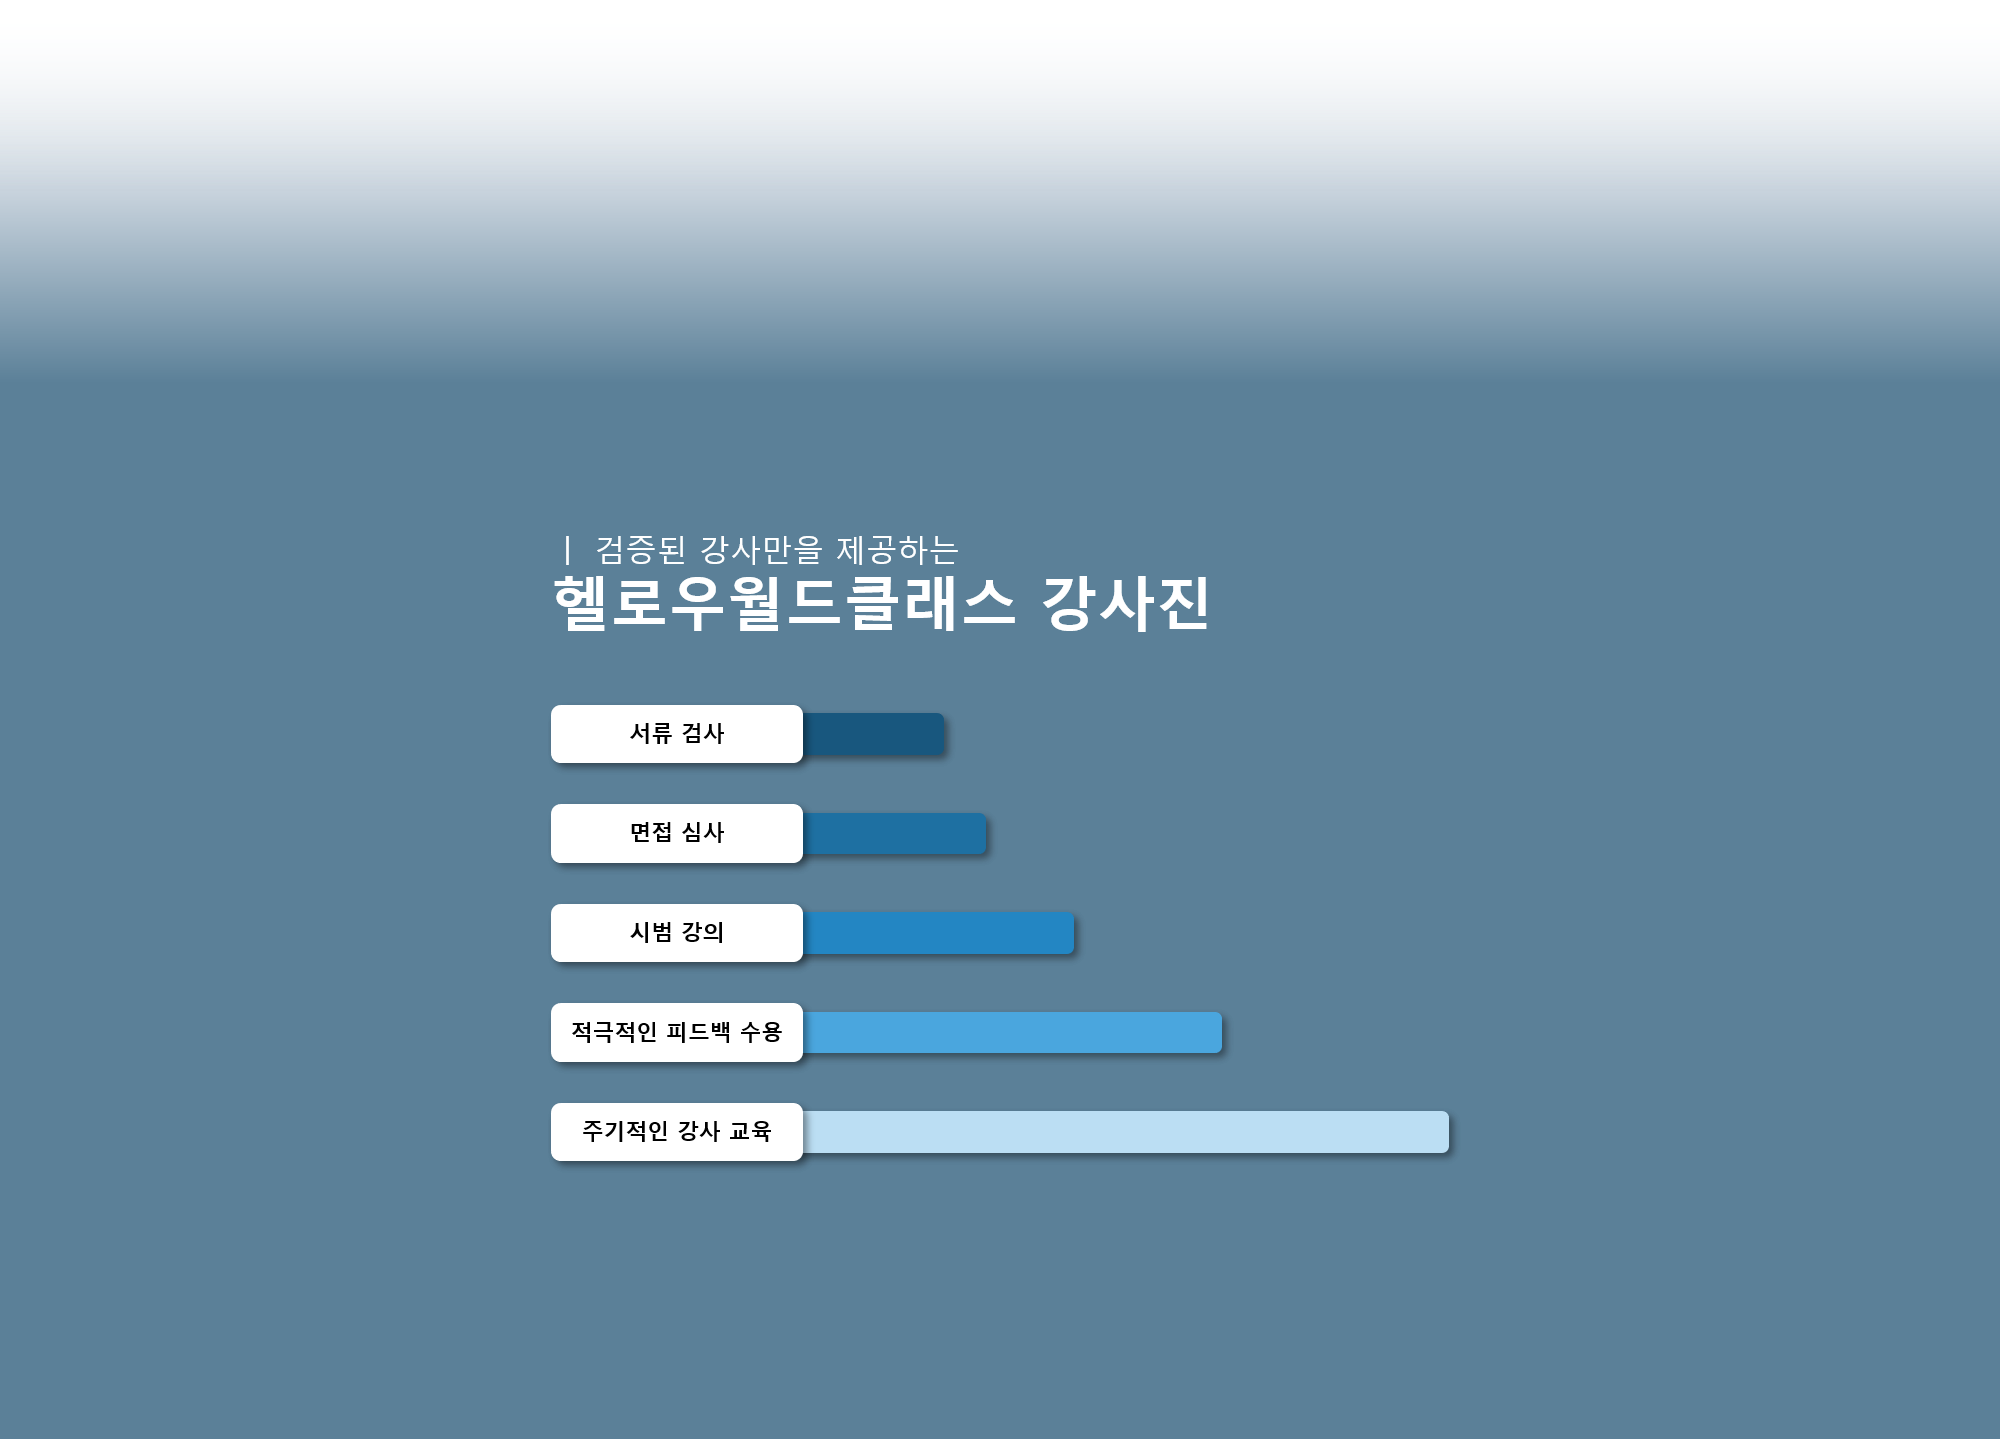
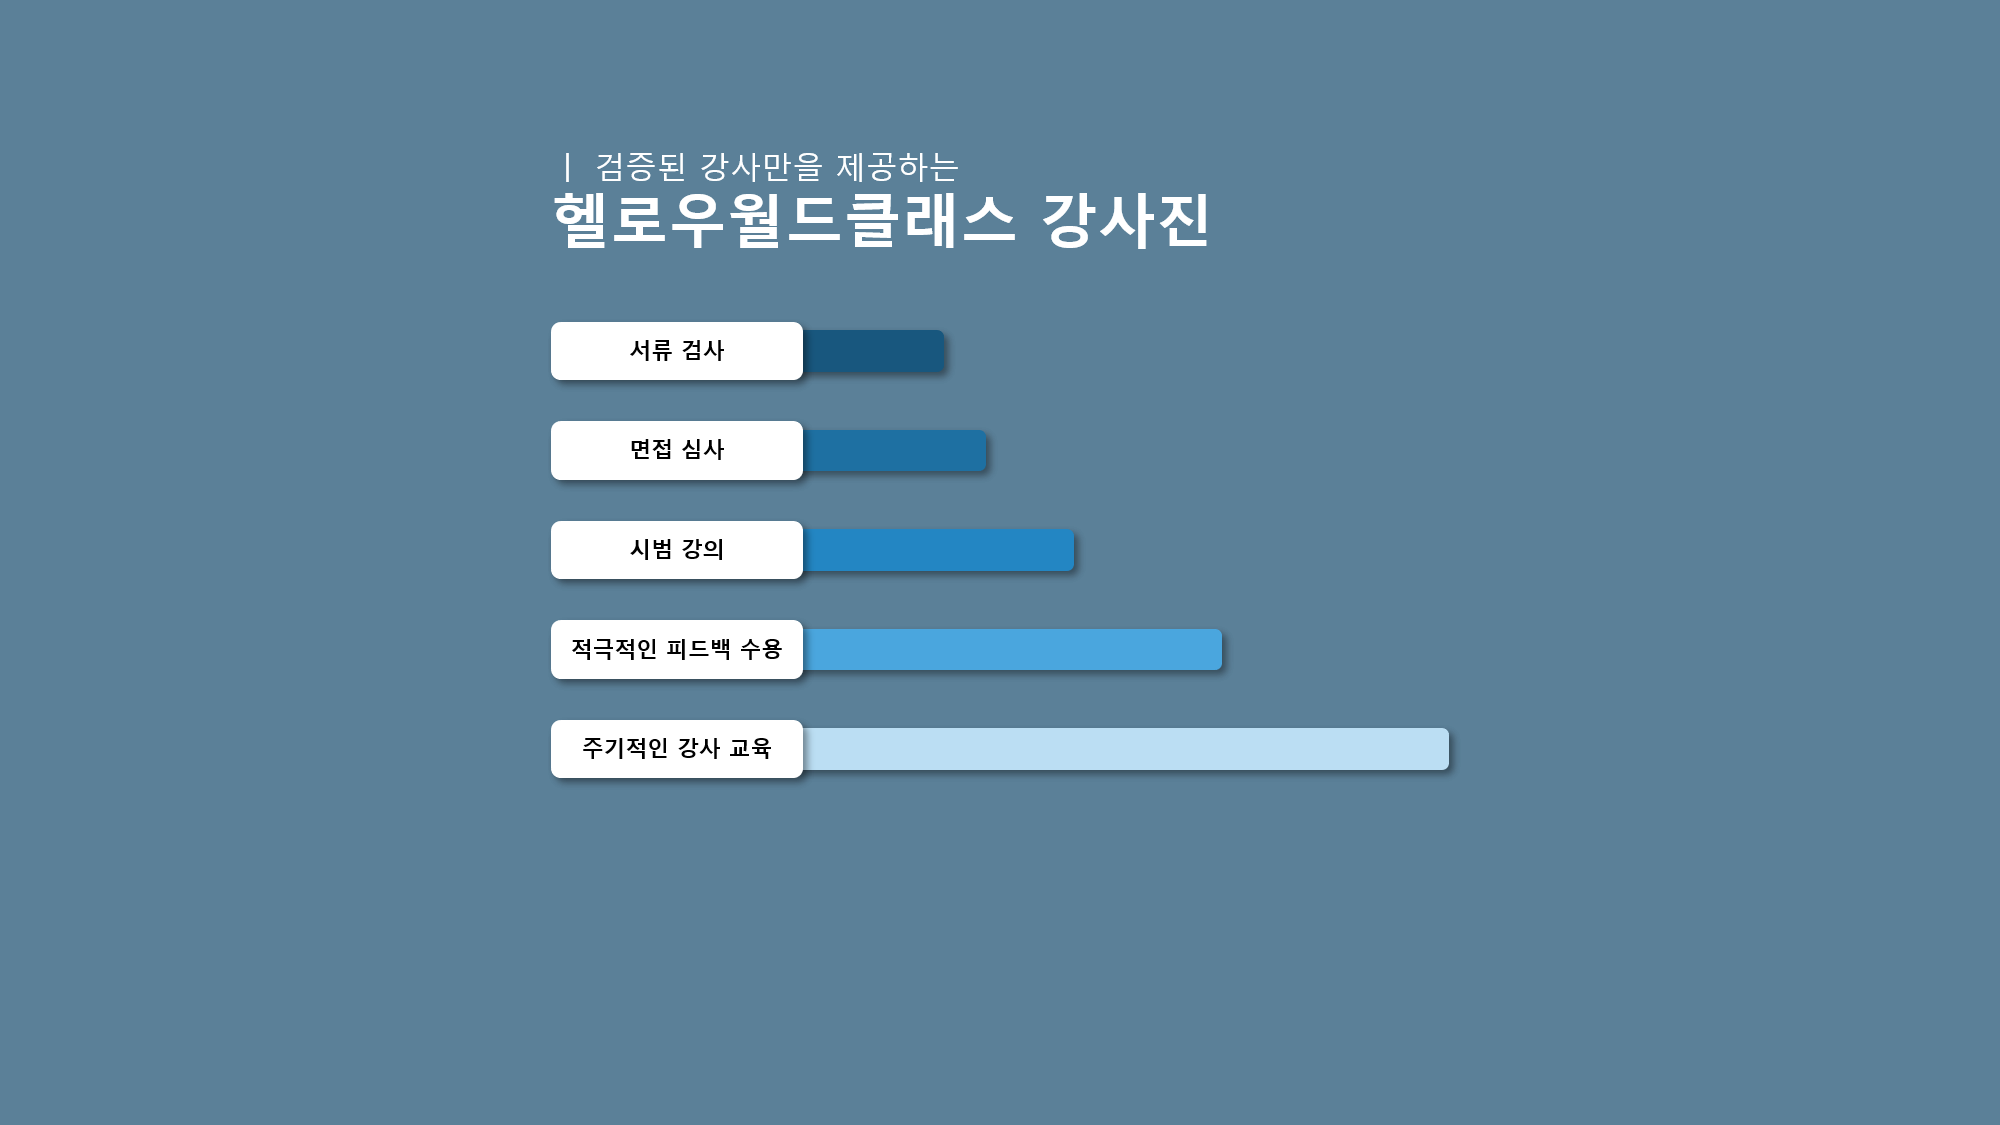
스크롤 섹션 모션 구현완료

diff --git a/index.html b/index.html
@@ -37,15 +37,15 @@
 
           <a href="index.html"><img  class="logoss" src="./images/helloworldclass.png" ></a>
           <ul class="nav-linkss" style="float: right;">
-            <div onclick="logclick()" id="log" style="margin-right: 40px; color : black; background-color: white; border-radius: 10px; border:7px solid white; font-weight: bolder; ">
-              &nbsp&nbsp&nbsp&nbsp&nbsp&nbsp로그인&nbsp&nbsp&nbsp&nbsp&nbsp&nbsp</div>
+            <li onclick="logclick()" id="log" style="margin-right: 40px; color : black; background-color: white; border-radius: 10px; border:7px solid white; font-weight: bolder; ">
+              &nbsp&nbsp&nbsp&nbsp&nbsp&nbsp로그인&nbsp&nbsp&nbsp&nbsp&nbsp&nbsp</li>
             </ul>
         </div>
 
       </div>
 
       <ul class="nav-links">
-        <li><a href="login.html">로그인</a></li>
+        <li onclick="logclick()" id="log1" style="font-weight: bold;">로그인</li>
         <li><a href="#">홈</a></li>
         <li><a href="teacher.html">강사찾기</a></li>
         <li><a href="application.html">커뮤니티</a></li>
@@ -77,7 +77,7 @@
 
 
 
-
+  <div class="section">
     <!-- carousel를 구성할 영역 설정 -->
     <div style="width: 100%;">
       <!-- carousel를 사용하기 위해서는 class에 carousel와 slide 설정한다. -->
@@ -156,7 +156,8 @@
         </a>
       </div>
     </div>
-
+  </div>
+  <div class="section" >
     <div style=" position : relative;">
       <img src="./images/main20.png" style="width:100%;">
       <div contenteditable placeholder='&nbsp;&nbsp;다양한 국가의 선생님들을 검색해보세요.' class="searchbar"></div>
@@ -169,12 +170,15 @@
       </div>
 
     </div>
-
+  
+  <img src="./images/main122.png" style="width:100%;">
+</div>
+  <div class="section" >
     <div style="position: relative;">
       <img src="./images/main22.png" style="width:100%;">
       <img OnClick="location.href ='application.html'" src="./images/main24.png" style="
       width:30%;  position: absolute;
-      top: 90%;
+      top: 76%;
        left: 35%; 
        line-height: 30px;
        color: rgb(191,191,191);
@@ -182,9 +186,13 @@
 
 
     </div>
+  </div>
+ 
+
+  <div class="section">
     <div
       style="text-align: center; border: 1px solid aliceblue; position: relative; height: 1000px; background-color: aliceblue;">
-      <div style="width: 1000px; height: 180px; ">
+      <div style="width: 1000px; height: 80px; ">
 
       </div>
       <div class="youdiv">
@@ -290,10 +298,10 @@
         </div>
       </div>
     </div>
-
-
+  </div>
+<div class="section" >
     <div class="inclass">
-      <div style="width: 1000px; height: 180px; ">
+      <div style="width: 1000px; height: 80px; ">
 
       </div>
       <div class="youdiv">
@@ -479,7 +487,7 @@
       </div>
 
     </div>
-
+  </div>
 
 
   <!-- Footer -->

diff --git a/script.js b/script.js
@@ -139,9 +139,9 @@ if (matchMedia("screen and (max-width: 768px)").matches) {
   });
 
   var swiper2 = new Swiper(".mySwiper2", {
-    slidesPerView: 2,
+    slidesPerView: 1,
     spaceBetween: 30,
-    slidesPerGroup: 2,
+    slidesPerGroup: 1,
     loop: true,
     loopFillGroupWithBlank: true,
     pagination: {
@@ -281,12 +281,17 @@ if(loginn["로그인유무"]==1)
   const element = document.getElementById('log');
   element.innerHTML 
   = '&nbsp&nbsp&nbsp&nbsp로그아웃&nbsp&nbsp&nbsp&nbsp';
+  const element1 = document.getElementById('log1');
+  element1.innerHTML 
+  = '로그아웃';
 }
 else{
   const element = document.getElementById('log');
   element.innerHTML 
   = '&nbsp&nbsp&nbsp&nbsp&nbsp&nbsp로그인&nbsp&nbsp&nbsp&nbsp&nbsp&nbsp';
-
+  const element1 = document.getElementById('log1');
+  element1.innerHTML 
+  = '로그인';
 
 }
 function logclick(){
@@ -306,4 +311,49 @@ location.href = "./login.html";
 
 // Json Object를 저장하기
 
+}
+window.addEventListener("wheel", function(e){
+	e.preventDefault();
+},{passive : false});
+window.onload = function(){
+  const elm = document.querySelectorAll('.section');
+  const elmCount = elm.length;
+  elm.forEach(function(item, index){
+    item.addEventListener('mousewheel', function(event){
+      event.preventDefault();
+      let delta = 0;
+
+      if (!event) event = window.event;
+      if (event.wheelDelta) {
+          delta = event.wheelDelta / 120;
+          if (window.opera) delta = -delta;
+      } 
+      else if (event.detail)
+          delta = -event.detail / 3;
+
+      let moveTop = window.scrollY;
+      let elmSelector = elm[index];
+
+      // wheel down : move to next section
+      if (delta < 0){
+        if (elmSelector !== elmCount-1){
+          try{
+            moveTop = window.pageYOffset + elmSelector.nextElementSibling.getBoundingClientRect().top;
+          }catch(e){}
+        }
+      }
+      
+      // wheel up : move to previous section
+      else{
+        if (elmSelector !== 0){
+          try{
+            moveTop = window.pageYOffset + elmSelector.previousElementSibling.getBoundingClientRect().top;
+          }catch(e){}
+        }
+      }
+
+      const body = document.querySelector('html');
+      window.scrollTo({top:moveTop, left:0, behavior:'smooth'});
+    });
+  });
 }

diff --git a/styles.css b/styles.css
@@ -3,6 +3,7 @@
   padding: 0px;
   box-sizing: border-box;
 }
+html, body{ width:100%; height: 100%;}
 
 .menu {
   /* 기본 스태틱에서는 좌표 적용이 안됨 */
@@ -255,6 +256,7 @@ nav {
 .nav-linkss li {
   list-style: none;
 }
+
 
 .nav-links a {
   color: rgb(0, 0, 0);
